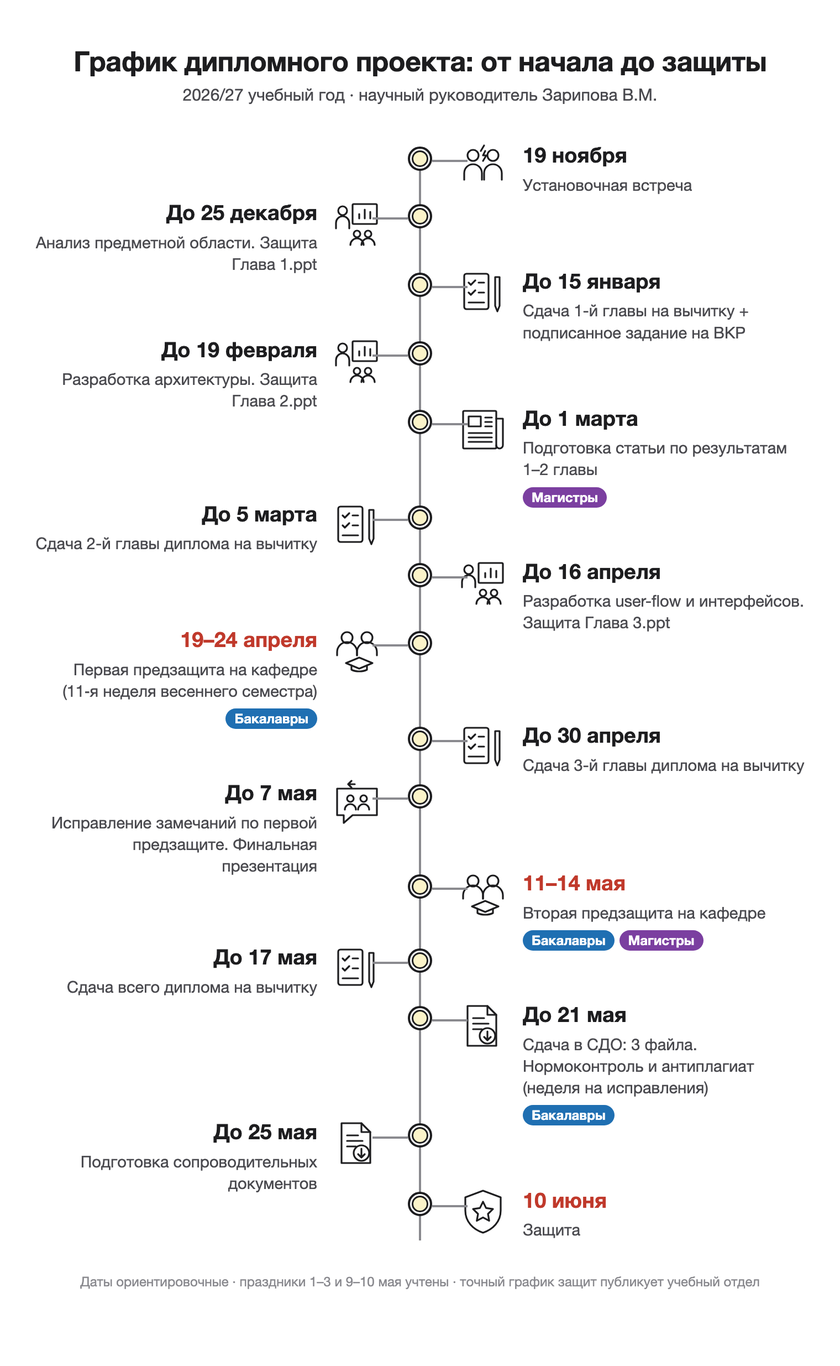
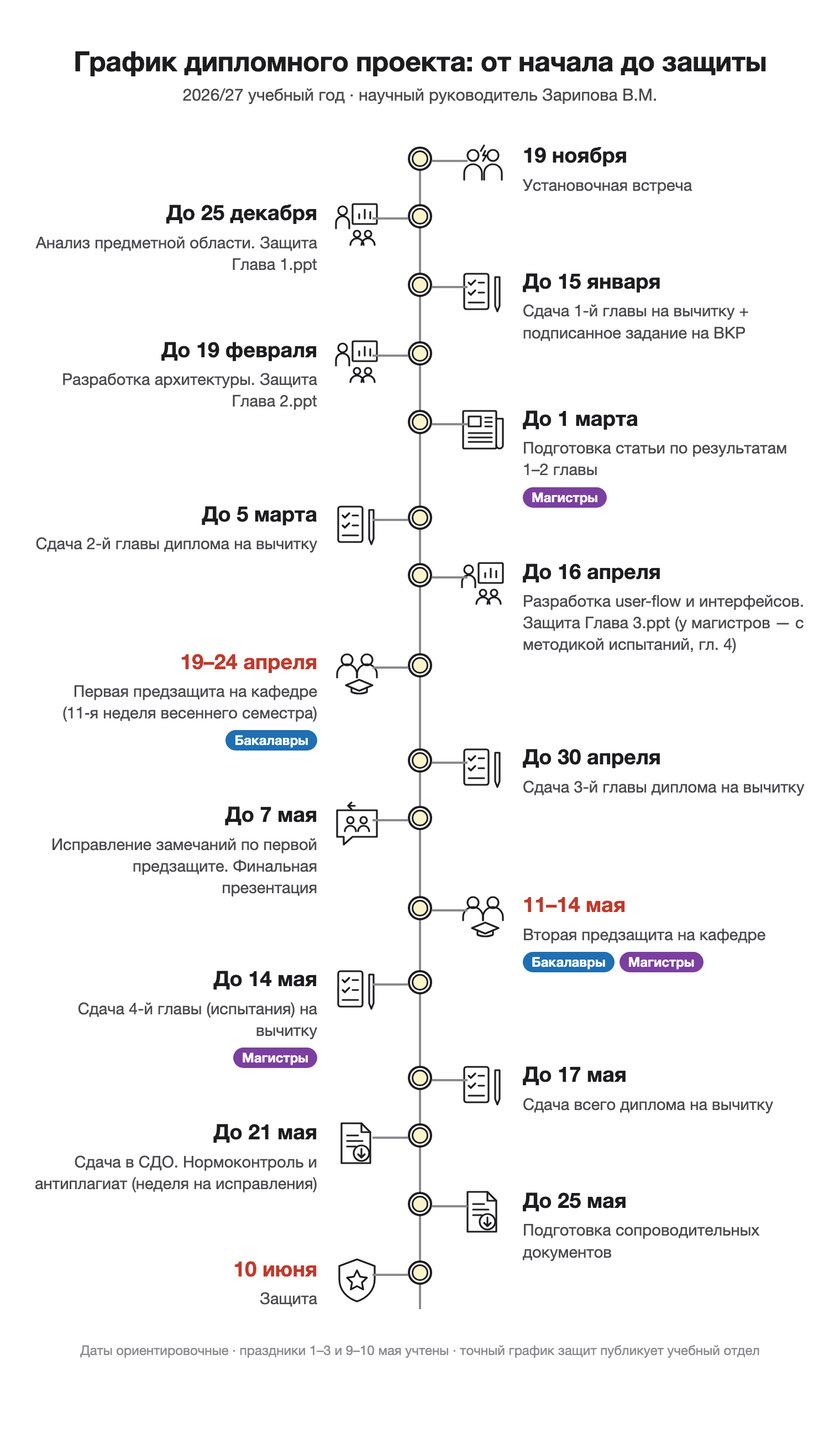
docs: требования руководителя 2026/27 — магистры 4 главы и ≥40 источников, бакалавры ≥30; нормоконтроль и антиплагиат для магистров; календари с датами

diff --git a/diploma-info/guides/diploma-timeline.md b/diploma-info/guides/diploma-timeline.md
@@ -2,7 +2,7 @@
 
 > 📐 Этот гайд объясняет, *как* делать. Формальные требования (структура, объёмы, сроки, оформление) зависят от уровня — см. [requirements/](../requirements/README.md). При расхождении цифр правы требования.
 
-> 📅 **Календарный график кафедры в СДО первичен.** Ниже — этапы без конкретных дат; точные даты, шаблоны и порядок сдачи публикует кафедра. Сроки и пороги — см. требования вашего уровня: [бакалавр](../requirements/bachelor-2026-27.md) / [магистр](../requirements/master.md).
+> 📅 **Календарный график кафедры в СДО первичен.** Ниже — сроки руководителя на 2026/27; даты сдачи в СДО, предзащиты кафедры и защиты публикует кафедра, при расхождении правы они. Сроки и пороги — см. требования вашего уровня: [бакалавр](../requirements/bachelor-2026-27.md) / [магистр](../requirements/master.md).
 
 ![График дипломного проекта](img/plan.png)
 
@@ -14,37 +14,45 @@
 
 ## Календарь бакалавра (кафедра ИП, 2026/27)
 
-| Этап | Когда | Результат |
+| Этап | Срок | Результат |
 | --- | --- | --- |
-| Выбор темы и руководителя, резервация в этом репозитории | начало осеннего семестра | Тема зафиксирована в общей таблице кафедры |
-| Задание на ВКР | осень; сдача в зимнюю сессию | Подписанное задание: тема, цель, задачи, этапы |
-| Отчёт 1 — анализ предметной области (глава 1) | осенний семестр | Рабочая презентация → текст главы 1 на вычитку |
-| Приказ об утверждении тем | начало весеннего семестра | Тема закреплена официально |
-| Отчёт 2 — проектирование (глава 2) | первая половина весеннего семестра | Рабочая презентация → текст главы 2 на вычитку |
-| Предзащита | 11-я учебная неделя весеннего семестра, онлайн | Обязательна; 3–5 минут по текущему состоянию работы, демо кода не требуется |
-| Отчёт 3 — реализация и тестирование (глава 3) | после предзащиты | Рабочая презентация → текст главы 3 на вычитку |
-| Полный текст на вычитку руководителю | до сдачи в СДО, с запасом на две итерации правок | Согласованный текст |
-| Сдача в СДО, нормоконтроль, антиплагиат, допуск | по графику кафедры | Комплект файлов, положительное заключение руководителя |
+| Установочная встреча | 19 ноября | Порядок работы, сроки, первое задание |
+| Отчёт 1 — анализ предметной области (глава 1) | до 25 декабря | Рабочая презентация главы 1 |
+| Текст главы 1 и задание на ВКР | до 15 января | Текст на вычитку; подписанное задание (сдаётся в зимнюю сессию) |
+| Отчёт 2 — проектирование (глава 2) | до 19 февраля | Рабочая презентация главы 2 |
+| Текст главы 2 | до 5 марта | Текст на вычитку |
+| Отчёт 3 — реализация и тестирование (глава 3) | до 16 апреля | Рабочая презентация главы 3 |
+| Первая предзащита | 19–24 апреля (11-я неделя весеннего семестра), онлайн | Обязательна; 3–5 минут по текущему состоянию работы, демо кода не требуется |
+| Текст главы 3 | до 30 апреля | Текст на вычитку (до майских праздников) |
+| Вторая предзащита | 11–14 мая | Итоговая презентация, замечания |
+| Полный текст на вычитку | до 17 мая | Согласованный текст |
+| Сдача в СДО, нормоконтроль, антиплагиат | до 21 мая (уточняется по графику кафедры) | Три файла в СДО; неделя на правки по нормоконтролю; «Руконтекст» ≥ 55 % |
+| Сопроводительные документы | до 25 мая | Комплект для допуска |
 | Проверка комплектности | за 3 дня (кафедра) и за 2 дня (секретарь ГЭК) до защиты | Полный комплект в СДО и на бумаге |
-| Защита | по графику учебного отдела | Доклад + презентация + вопросы ГЭК |
+| Защита | ориентир 10 июня, по графику учебного отдела | Доклад до 5 минут + презентация + вопросы ГЭК |
 
-Консультации с руководителем — с частотой по требованиям кафедры (ведётся журнал посещаемости). Статья по материалам работы — **по желанию**, для допуска не требуется (см. [245-scientific-paper.md](245-scientific-paper.md)).
+Консультации с руководителем — не реже раза в неделю (ведётся журнал посещаемости). Статья по материалам работы — **по желанию**, для допуска не требуется (см. [245-scientific-paper.md](245-scientific-paper.md)).
 
-## Календарь магистра
+## Календарь магистра (2026/27)
 
-| Этап | Когда | Результат |
+| Этап | Срок | Результат |
 | --- | --- | --- |
-| Выбор темы и руководителя, резервация в этом репозитории | начало осеннего семестра (перечень тем утверждается за 6 месяцев до ГИА) | Заявление, закрепление темы приказом |
-| Задание на ВКР и календарный график | осень, совместно с руководителем | Подписанное задание с этапами и сроками |
-| Отчёт 1 — литературный обзор и постановка задачи (глава 1) | осенний семестр | Рабочая презентация → текст главы на вычитку |
-| Отчёт 2 — модели/методы, архитектура (глава 2) | первая половина весеннего семестра | Рабочая презентация → текст главы на вычитку |
-| **Статья по материалам работы** | к весеннему семестру | Статья подана на публикацию (обязательна, п. 7.2 Положения; см. [245-scientific-paper.md](245-scientific-paper.md)) |
+| Установочная встреча | 19 ноября | Порядок работы, сроки, первое задание |
+| Отчёт 1 — исследование (глава 1) | до 25 декабря | Рабочая презентация: актуальность, литобзор, аналоги, методы, своя методика |
+| Текст главы 1 и задание на ВКР | до 15 января | Текст на вычитку; подписанное задание с этапами и сроками |
+| Отчёт 2 — проектирование (глава 2) | до 19 февраля | Рабочая презентация: AS-IS / TO-BE, архитектура, структура данных |
+| **Статья по материалам работы** | до 1 марта | Статья по главам 1–2 подана на публикацию (обязательна, п. 7.2 Положения; см. [245-scientific-paper.md](245-scientific-paper.md)) |
+| Текст главы 2 | до 5 марта | Текст на вычитку |
 | Изменение темы (если нужно) | не позднее чем за 3 месяца до ГИА | Приказ |
-| Отчёт 3 — эксперимент, результаты (глава 3) | вторая половина весеннего семестра | Рабочая презентация → текст главы на вычитку |
-| Предзащита на кафедре | по графику руководителя | Презентация рабочих результатов, замечания |
-| Окончательный текст руководителю | не менее чем за 12 рабочих дней до ГИА | Отзыв руководителя (в течение 5 рабочих дней), направление на рецензию |
+| Отчёт 3 — реализация (глава 3) и методика испытаний (глава 4) | до 16 апреля | Рабочая презентация глав 3–4 |
+| Текст главы 3 | до 30 апреля | Текст на вычитку (до майских праздников) |
+| Предзащита на кафедре | 11–14 мая | Итоговая презентация, замечания |
+| Текст главы 4 — испытания | до 14 мая | Результаты испытаний, проверка гипотезы |
+| Полный текст на вычитку | до 17 мая | Не менее чем за 12 рабочих дней до ГИА; отзыв руководителя — в течение 5 рабочих дней, направление на рецензию |
+| Сдача в СДО, нормоконтроль, антиплагиат | до 21 мая (уточняется по графику кафедры) | Неделя на правки по нормоконтролю; отчёт о заимствованиях входит в комплект |
+| Сопроводительные документы | до 25 мая | Отзыв, рецензия, подтверждение публикации |
 | Комплект секретарю ГЭК | не позднее чем за 2 календарных дня до защиты | Бумажный оригинал, отзыв, рецензия, отчёт о заимствованиях |
-| Защита | по графику ГИА | Доклад + презентация + вопросы, вся защита ≤ 30 минут |
+| Защита | ориентир 10 июня, по графику ГИА | Доклад + презентация + вопросы, вся защита ≤ 30 минут |
 
 Консультации и отчётность — по графику руководителя.
 
@@ -55,7 +63,7 @@
 Работа строится вокруг поэтапной подготовки и защиты **презентаций по главам**, а затем — написания текста диплома по уже защищённым частям.
 
 1. **Сначала — презентация, потом текст.**
-   - Каждая крупная часть диплома (1-я, 2-я и 3-я главы) сначала оформляется в виде рабочей презентации.
+   - Каждая крупная часть диплома (главы 1–3, у магистров также глава 4) сначала оформляется в виде рабочей презентации.
    - На онлайн-встрече студент защищает эту часть: рассказывает структуру главы, ключевые идеи, результаты, планы.
 
 2. **Онлайн-защита части диплома.**
@@ -77,8 +85,8 @@
    - Таким образом, всегда есть «текущая» презентационная часть и «вычитываемая» текстовая часть.
 
 5. **Предзащита.**
-   - Бакалавр: одна обязательная онлайн-предзащита кафедры на 11-й неделе весеннего семестра (см. [bachelor-2026-27.md](../requirements/bachelor-2026-27.md)).
-   - Магистр: предзащита на кафедре по графику руководителя, с презентацией рабочих результатов (см. [master.md](../requirements/master.md)).
+   - Бакалавр: обязательная онлайн-предзащита кафедры на 11-й неделе весеннего семестра (19–24 апреля) и вторая предзащита 11–14 мая (см. [bachelor-2026-27.md](../requirements/bachelor-2026-27.md)).
+   - Магистр: предзащита на кафедре 11–14 мая, с презентацией рабочих результатов (см. [master.md](../requirements/master.md)).
    - После предзащиты студент вносит исправления в презентацию и текст.
 
 6. **Финал.**

diff --git a/diploma-info/requirements/master.md b/diploma-info/requirements/master.md
@@ -109,7 +109,7 @@
 
 ## Ключевые числа одной строкой
 
-Объём ≤ 80–100 стр. без приложений (п. 5.2; минимум 80 — требование руководителя) | приложения ≤ 1/3 объёма | аннотация ≤ 200 слов, 5–15 ключевых слов | темы за 6 мес. до ГИА | смена темы не позднее чем за 3 мес. | задание в 3 экз. | финальный текст руководителю за 12 раб. дней | отзыв руководителя за 5 раб. дней | ≥ 1 недели на проверку и ≥ 1 недели на правки | документы секретарю ГЭК за 2 календарных дня | выписка о недопуске за 3 дня | защита ≤ 30 мин. | оценка по 4-балльной шкале | повторная защита через 10 мес.–5 лет, не более 2 раз | порог оригинальности, минуты доклада, число источников и публикаций — не регламентированы.
+Объём ≤ 80–100 стр. без приложений (п. 5.2; минимум 80 — требование руководителя) | приложения ≤ 1/3 объёма | аннотация ≤ 200 слов, 5–15 ключевых слов | темы за 6 мес. до ГИА | смена темы не позднее чем за 3 мес. | задание в 3 экз. | финальный текст руководителю за 12 раб. дней | отзыв руководителя за 5 раб. дней | ≥ 1 недели на проверку и ≥ 1 недели на правки | документы секретарю ГЭК за 2 календарных дня | выписка о недопуске за 3 дня | защита ≤ 30 мин. | оценка по 4-балльной шкале | повторная защита через 10 мес.–5 лет, не более 2 раз | порог оригинальности, минуты доклада, число источников и публикаций — не регламентированы Положением (требования руководителя: 4 главы, ≥ 40 источников, статья, нормоконтроль и антиплагиат — разд. 12).
 
 ## 12. Дополнительные требования научного руководителя (Зарипова В.М.)
 
@@ -117,9 +117,14 @@
 
 - **Объём — не менее 80 страниц** без приложений (верхняя граница 100 — п. 5.2 Положения).
 - **Научная новизна** формулируется явно во введении; **гипотезы** исследования — сформулированы и проверены в работе (см. гайд `guides/110-methodology.md`).
-- **Литературный обзор** — отдельная глава/раздел с research gap; **не менее 30 источников**, существенная доля — иностранные и не старше 5 лет (см. `guides/115-literature-review.md`, `guides/170-sources.md`).
+- **Структура — 4 главы** (решение руководителя 19.11.2026):
+  1. Исследование — актуальность, литературный обзор с research gap, аналоги и критерии сравнения, методы, собственная методика;
+  2. Проектирование — AS-IS / TO-BE, архитектура, структура данных, границы реализации;
+  3. Реализация — интерфейсы, пользовательские сценарии, поведение в исключительных ситуациях;
+  4. Испытания — методика испытаний, критерии оценки, результаты, проверка гипотезы.
+- **Литературный обзор** — в главе 1, с research gap; **не менее 40 источников**, существенная доля — иностранные и не старше 5 лет (см. `guides/115-literature-review.md`, `guides/170-sources.md`).
 - **Публикация**: минимум одна статья по материалам работы (п. 7.2 Положения) — подготовить к весеннему семестру (см. `guides/245-scientific-paper.md`).
 - **Предзащита на кафедре** — по графику руководителя, с презентацией рабочих результатов.
 - **Оформление** — ГОСТ 7.32-2017 (Times New Roman 14, интервал 1.5, поля 30/15/20/20 мм); подписи «Рисунок N.N – Название», «Таблица N.N – Название», нумерация в пределах глав; один файл .docx.
-- **Порог оригинальности** — не ниже действующего порога университета для магистерских работ (уточняется у секретаря ГЭК; ориентир — 60–70 %).
+- **Нормоконтроль и антиплагиат** — обязательны, как у бакалавров: сдача в СДО по графику кафедры, неделя на исправления по нормоконтролю. Порог оригинальности — не ниже действующего порога университета для магистерских работ (уточняется у секретаря ГЭК; ориентир — 60–70 %).
 - Еженедельная отчётность руководителю о ходе работы в согласованной форме.

diff --git a/diploma-info/requirements/bachelor-2026-27.md b/diploma-info/requirements/bachelor-2026-27.md
@@ -26,7 +26,7 @@
 | Глава 2. Проектирование системы | 15–18 стр. | 2.1 Концепция и архитектура — **диаграмма TO-BE**, **схема архитектуры**, обоснование архитектурного стиля. 2.2 Пользовательские сценарии, **ER-модель**, **макеты ключевых экранов**, описание интерфейсов между модулями/API. 2.3 Обоснование технологического стека по объективным критериям. |
 | Глава 3. Реализация и тестирование | 15–18 стр. | 3.1 Структура репозитория, модули, ключевые решения; листинги ≤ 10–15 % главы. 3.2 Виды тестирования, **таблица тест-сценариев** (вход/ожидание/факт), **скриншоты**, развёртывание. 3.3 **Таблица метрик «до/после»** + **диаграмма**; вывод о достижении цели. |
 | Заключение | 1–2 стр. | По 1–2 предложения на каждую задачу, вывод о достижении цели, практическая значимость, перспективы. Без новой информации. |
-| Список источников | — | **≥ 20**, не менее половины не старше 5 лет; порядок — по первому упоминанию; ГОСТ Р 7.0.5-2008 / ГОСТ 7.1-2003; ссылки вида [3], [4, с. 25], [2, 5] |
+| Список источников | — | **≥ 30** (требование руководителя; регламент — ≥ 20), не менее половины не старше 5 лет; порядок — по первому упоминанию; ГОСТ Р 7.0.5-2008 / ГОСТ 7.1-2003; ссылки вида [3], [4, с. 25], [2, 5] |
 | Приложения | ≤ 1/3 | Расширенные тесты, инструкция по установке, примеры данных, полный код. Обозначение — буквы А, Б, В… (без Ё, З, Й, О, Ч, Ь, Ы, Ъ) |
 
 Выводы по каждой главе — **жирным абзацем в конце последнего параграфа**, без отдельного подраздела.
@@ -76,7 +76,7 @@
 
 ## Ключевые числа одной строкой
 
-40–60 стр. | приложения ≤ 1/3, ≤ 20 | аннотация ≤ 150 слов, 5–7 ключевых слов | введение 2–3, гл. 1 8–10, гл. 2 и 3 по 15–18, заключение 1–2 | ≥ 20 источников, ≥ 50 % за 5 лет | консультации ≥ 1/нед | предзащита 11-я неделя весны | Руконтекст ≥ 55 %, 2 попытки | нормоконтроль +1 неделя | проверка за 3/2 дня | доклад ≤ 5 мин, 12–16 слайдов | TNR 14 / 1.5 / 30-15-20-20.
+40–60 стр. | приложения ≤ 1/3, ≤ 20 | аннотация ≤ 150 слов, 5–7 ключевых слов | введение 2–3, гл. 1 8–10, гл. 2 и 3 по 15–18, заключение 1–2 | ≥ 30 источников, ≥ 50 % за 5 лет | консультации ≥ 1/нед | предзащита 11-я неделя весны | Руконтекст ≥ 55 %, 2 попытки | нормоконтроль +1 неделя | проверка за 3/2 дня | доклад ≤ 5 мин, 12–16 слайдов | TNR 14 / 1.5 / 30-15-20-20.
 
 ## 8. Сроки и правила из Положения о ВКР бакалавров (СМКО МИРЭА 7.5.1/03.П.67-19, ред. 12.02.2025)
 
@@ -98,7 +98,7 @@
 | --- | --- | --- | --- | --- |
 | Объём без приложений | «не более 50 стр.» (п. 5.2) | 40–50 | 40–60 | **Решение руководителя (07.09.2026): 40–60 стр. по регламенту кафедры.** Расхождение с Положением — на стороне кафедры |
 | Структура | не задана | 4 главы (решение руководителя 2025/26) | 3 главы: анализ → проектирование → реализация+тестирование | **Решение руководителя (07.09.2026): 3 главы по регламенту.** 4-главная структура больше не используется |
-| Источники | не задано | ≥ 15, ≥ 50 % зарубежных | ≥ 20, ≥ 50 % не старше 5 лет | Берём объединение: **≥ 20, ≥ 50 % за 5 лет, существенная доля зарубежных** |
+| Источники | не задано | ≥ 15, ≥ 50 % зарубежных | ≥ 20, ≥ 50 % не старше 5 лет | **Решение руководителя (19.11.2026): ≥ 30, ≥ 50 % за 5 лет, существенная доля зарубежных** |
 | Доклад | не задано | до 10 мин | до 5 мин | Ориентир — 5 мин, репетировать на 5 |
 | Аннотация | — | ≤ 150 слов + объём текста и приложений в конце | ≤ 150 слов + 5–7 ключевых слов | Объединить: 150 слов, ключевые слова, объём в конце |
 | Оригинальность | по СМКО 8.5.1/03.П.121-25 | ≥ 55 % | ≥ 55 %, Руконтекст, 2 попытки | Совпадает |

diff --git a/diploma-info/requirements/README.md b/diploma-info/requirements/README.md
@@ -18,16 +18,16 @@
 | Характер работы | Инженерный проект: полный ЖЦ разработки ПО | Научная / научно-практическая работа; научная новизна обязательна |
 | Объём без приложений | 40–60 стр. (регламент ИП; решение руководителя, см. bachelor-2026-27 разд. 9) | 80–100 стр. (минимум 80 — требование руководителя) |
 | Приложения | ≤ 1/3 объёма, ≤ 20 шт. | ≤ 1/3 объёма |
-| Структура | Жёсткая: 3 главы × 3 параграфа (анализ → проектирование → реализация) | Введение, отдельный литературный обзор, основная часть (теория + эксперимент), заключение |
+| Структура | Жёсткая: 3 главы × 3 параграфа (анализ → проектирование → реализация) | 4 главы (требование руководителя): исследование с литобзором → проектирование → реализация → испытания |
 | Аннотация | ≤ 150 слов, 5–7 ключевых слов | ≤ 200 слов, 5–15 ключевых слов, статистика работы |
 | Введение | Актуальность, объект/предмет, цель (через улучшение характеристики), 5 типовых задач, практическая значимость, структура | Актуальность, цель/задачи, объект/предмет; научная новизна и практическая значимость — обязательны по результатам |
 | Гипотезы, новизна | Не требуются | Требуются |
 | Обязательные артефакты | AS-IS и TO-BE диаграммы, таблица аналогов, таблица требований, схема архитектуры, ER-модель, макеты, таблица тестов, метрики «до/после» | Модели/методы/алгоритмы, экспериментальные результаты с обсуждением и вкладом автора |
-| Источники | ≥ 20, ≥ 50 % не старше 5 лет | Число не регламентировано; требование руководителя — ≥ 30, обязательно иностранные |
+| Источники | ≥ 30, ≥ 50 % не старше 5 лет (требование руководителя; регламент — ≥ 20) | Число не регламентировано; требование руководителя — ≥ 40, обязательно иностранные |
 | Публикации | Не требуются | Статья по материалам работы обязательна (п. 7.2) |
 | Консультации | ≥ 1 раз в неделю, журнал посещаемости | По графику руководителя |
 | Предзащита | Обязательна, онлайн, 11-я неделя весеннего семестра | Не регламентирована Положением; на кафедре — по решению руководителя |
-| Антиплагиат | «Руконтекст», ≥ 55 %, 2 попытки | По СМКО 7.5.1/03.П.57, порог в Положении не задан |
+| Нормоконтроль и антиплагиат | Нормоконтроль (+1 неделя на правки); «Руконтекст», ≥ 55 %, 2 попытки | Обязательны (требование руководителя); проверка заимствований по СМКО 7.5.1/03.П.57, порог уточняется у секретаря ГЭК |
 | Рецензия | Не требуется | Обязательна, рецензент не с выпускающей кафедры |
 | Сроки сдачи | 3 файла в СДО по графику; текст руководителю за 12 раб. дней, отзыв за 5 раб. дней, секретарю ГЭК за 2 дня; проверка комплектности за 3 и 2 дня | Текст руководителю за 12 раб. дней, отзыв за 5 раб. дней, секретарю ГЭК за 2 дня |
 | Доклад | ≤ 5 минут, 12–16 слайдов | Вся защита ≤ 30 минут; в докладе обязателен пункт «значение для собственной карьеры» |

diff --git a/diploma-info/requirements/bachelor-review-checklist.md b/diploma-info/requirements/bachelor-review-checklist.md
@@ -97,7 +97,7 @@
 
 ## 7. Список источников
 
-- [ ] **К** ≥ 20 источников; ≥ 50 % не старше 5 лет (кроме ГОСТов, нормативов, патентов)
+- [ ] **К** ≥ 30 источников (требование руководителя); ≥ 50 % не старше 5 лет (кроме ГОСТов, нормативов, патентов)
 - [ ] **Ж** Существенная доля зарубежных источников (практика руководителя)
 - [ ] **К** Порядок — по первому упоминанию; на каждый источник есть ссылка в тексте [N] / [N, с. X]
 - [ ] **К** Оформление по ГОСТ Р 7.0.5-2008 / ГОСТ 7.1-2003
